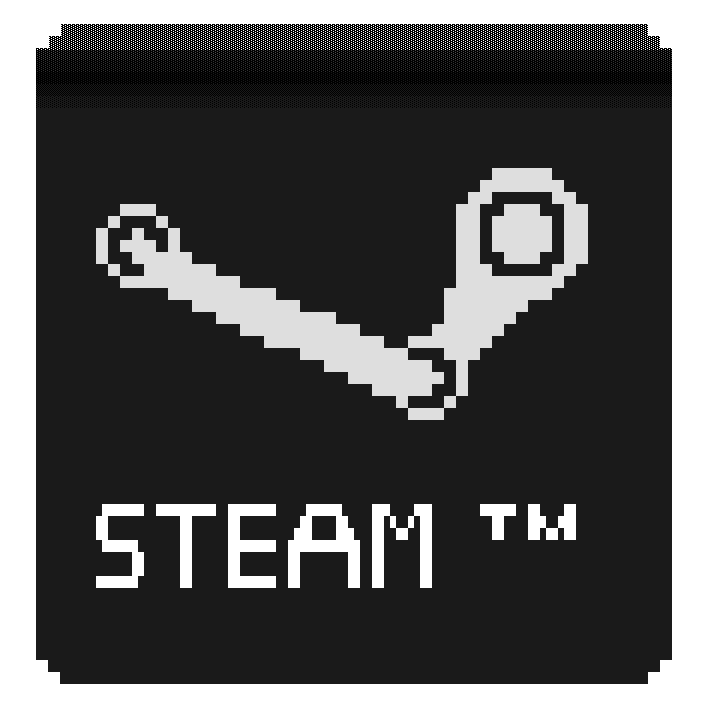
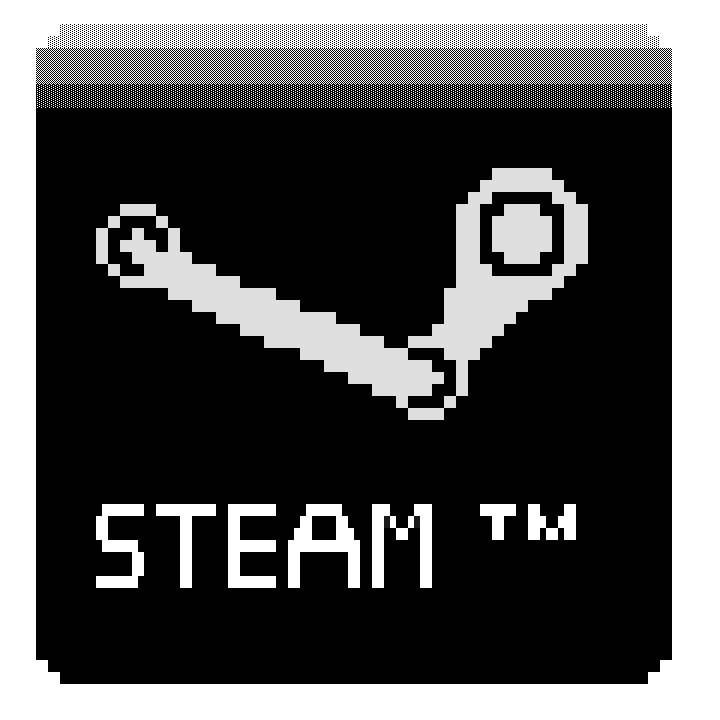
no message

diff --git a/index.md b/index.md
@@ -17,7 +17,7 @@ Gemstone Keeper is a 2D Topdown Dungeon Crawler where you explore caves and cave
 
 # Where can I find it?
 
-[![Steam](http://i.imgur.com/zpUvS4o.png)](http://store.steampowered.com/app/522080)
+[![Steam](/assets/images/Steam.png)](http://store.steampowered.com/app/522080)
 
 Available on the [Steam Store](http://store.steampowered.com/app/522080).
 
